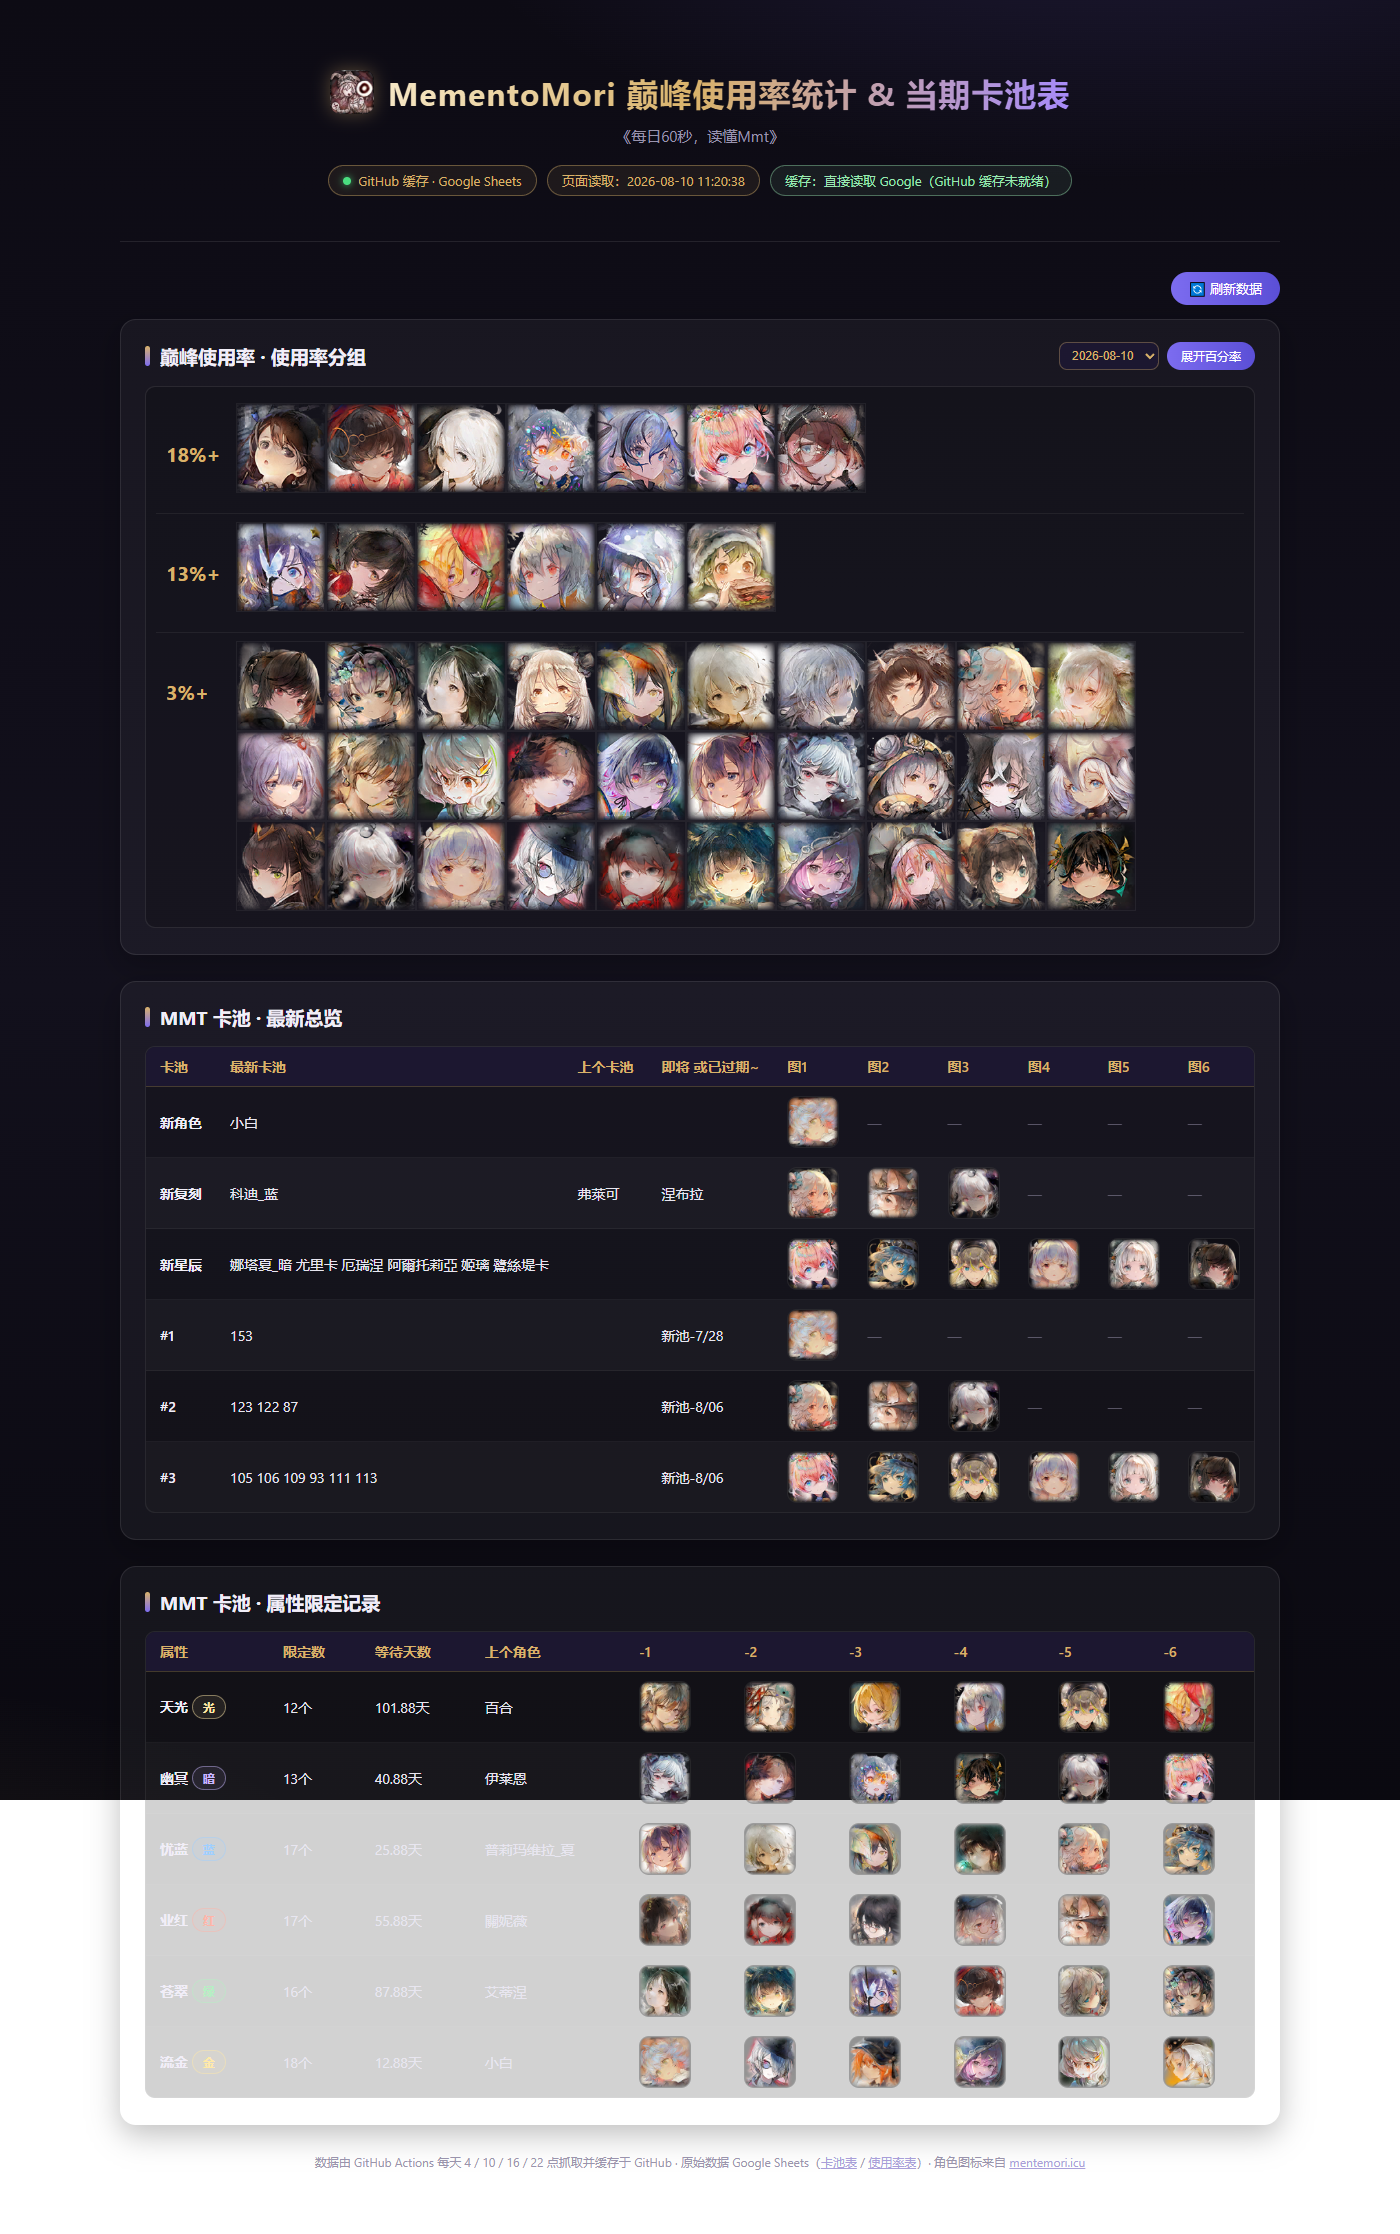
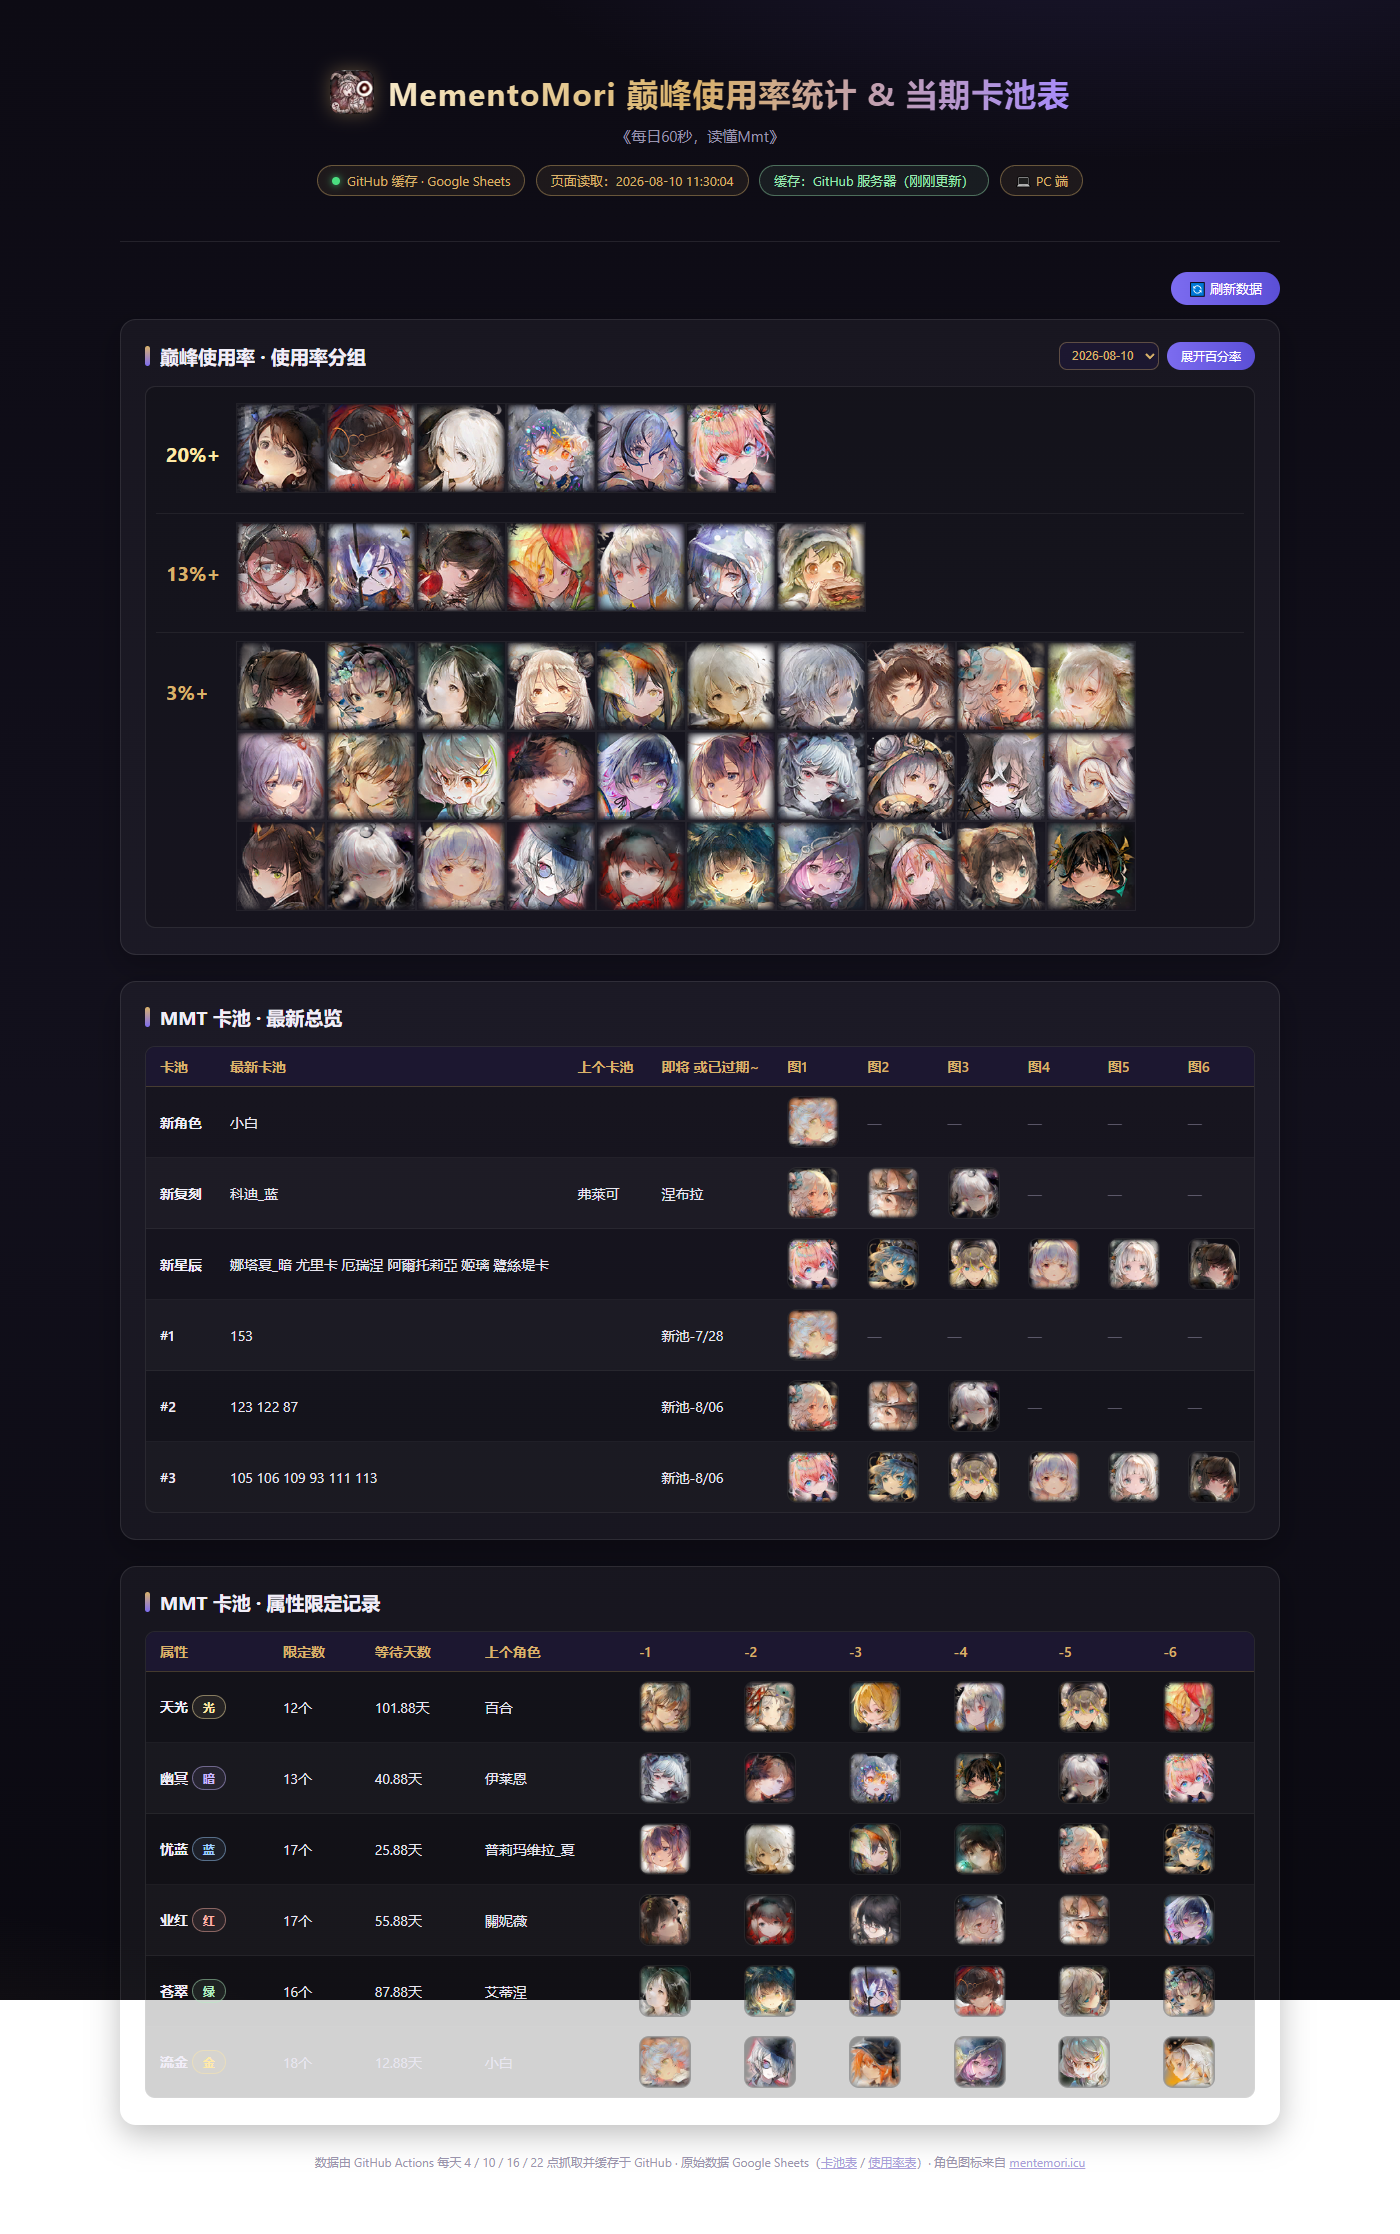
分类标签可点击填写自定义阈值；新增移动端/PC端识别与适配

diff --git a/index.html b/index.html
@@ -173,9 +173,12 @@ tbody tr:last-child td{border-bottom:none}
 .usage-wrap{padding:8px 10px}
 .grp{display:flex;align-items:flex-start;border-bottom:1px solid rgba(255,255,255,.06)}
 .grp:last-child{border-bottom:none}
-.grp-label{flex:0 0 80px;padding:14px 10px;font-weight:700;color:var(--gold);font-size:20px;line-height:90px;white-space:nowrap}
-.grp .icons{display:flex;flex-wrap:wrap;flex:0 0 900px;width:900px;gap:0;padding:8px 0}
-.ic{width:90px;height:90px;position:relative;overflow:hidden;border:1px solid rgba(255,255,255,.06)}
+:root{--usz:90px;--per-row:10}
+.grp-label{flex:0 0 80px;padding:14px 10px;font-weight:700;color:var(--gold);font-size:20px;line-height:var(--usz);white-space:nowrap;background:none;border:none;cursor:pointer;text-align:left;font-family:inherit}
+.grp-label:hover{color:#ffe9a8}
+.thr-input{width:76px;background:#1c1730;color:var(--gold);border:1px solid rgba(217,178,106,.4);border-radius:6px;font-size:17px;padding:4px 6px;line-height:28px;outline:none}
+.grp .icons{display:flex;flex-wrap:wrap;flex:0 0 calc(var(--per-row) * var(--usz));width:calc(var(--per-row) * var(--usz));gap:0;padding:8px 0}
+.ic{width:var(--usz);height:var(--usz);position:relative;overflow:hidden;border:1px solid rgba(255,255,255,.06)}
 .ic img{width:100%;height:100%;object-fit:cover;display:block}
 .ic .pct{display:none;position:absolute;left:0;right:0;bottom:0;background:rgba(10,8,20,.72);color:#ffe9a8;font-size:13px;line-height:20px;text-align:center}
 .usage-wrap.expanded .ic .pct{display:block}
@@ -201,6 +204,23 @@ footer{
   line-height:1.9;
 }
 footer a{color:#a99fd9}
+@media (max-width: 768px){
+  :root{--usz:56px;--per-row:5}
+  .wrap{padding:16px 10px 40px}
+  header.top{padding:20px 12px 18px}
+  header.top h1{font-size:20px;flex-wrap:wrap}
+  h1 .logo{width:32px;height:32px}
+  header.top .subtitle{font-size:13px}
+  .badge{font-size:12px;padding:5px 10px}
+  section.card{padding:14px 12px 18px;margin-bottom:16px}
+  section.card h2{font-size:15px}
+  .h2-note{flex-wrap:wrap}
+  thead th, tbody td{padding:7px 8px;font-size:12px}
+  .cell-ico .ico{width:40px;height:40px;border-radius:6px}
+  .grp-label{font-size:15px}
+  .ic .pct{font-size:10px;line-height:16px}
+  .toolbar{justify-content:center}
+}
 </style>
 </head>
 <body>
@@ -212,6 +232,7 @@ footer a{color:#a99fd9}
       <span class="badge"><span class="dot"></span>GitHub 缓存 · Google Sheets</span>
       <span class="badge" id="fetch-time">页面读取：—</span>
       <span class="badge" id="cache-time">缓存：—</span>
+      <span class="badge" id="device">💻 PC 端</span>
     </p>
   </header>
 
@@ -470,14 +491,20 @@ function renderElements(el){
     + "</tr></thead><tbody>" + body + "</tbody></table>";
 }
 let usageState = null;
+let thresholds = [0.18, 0.13, 0.03];
 let selectedDay = null;
 let pctOpen = false;
 
+function pctLabel(t){
+  const p = t * 100;
+  return (Number.isInteger(p) ? p.toFixed(0) : p.toFixed(2)) + "%+";
+}
 function groupsFor(list){
+  const ts = thresholds.slice().sort((a, b) => b - a);
   return [
-    { label: "18%+", min: 0.18,  max: Infinity, cap: Infinity },
-    { label: "13%+", min: 0.13,  max: 0.18,     cap: Infinity },
-    { label: "3%+",  min: 0.03,  max: 0.13,     cap: 30 }
+    { label: pctLabel(ts[0]), min: ts[0], max: Infinity, cap: Infinity },
+    { label: pctLabel(ts[1]), min: ts[1], max: ts[0],    cap: Infinity },
+    { label: pctLabel(ts[2]), min: ts[2], max: ts[1],    cap: 30 }
   ].map(g => ({ label: g.label, items: list.filter(x => x.v >= g.min && x.v < g.max).slice(0, g.cap) }));
 }
 function renderUsage(){
@@ -491,8 +518,9 @@ function renderUsage(){
   const names = usageState.names || {};
   const groups = groupsFor(usageState.perDay[selectedDay]);
   let html = "";
-  for (const g of groups){
-    html += '<div class="grp"><span class="grp-label">' + esc(g.label) + '</span><div class="icons">';
+  for (let i = 0; i < groups.length; i++){
+    const g = groups[i];
+    html += '<div class="grp"><button type="button" class="grp-label" data-idx="' + i + '" onclick="editThreshold(' + i + ', this)">' + esc(g.label) + '</button><div class="icons">';
     for (const x of g.items){
       const p = x.id.padStart(6, "0");
       const nm = names[x.id] || ("ID " + x.id);
@@ -510,6 +538,47 @@ function renderUsage(){
   sel.innerHTML = usageState.days.map(d =>
     '<option value="' + d.c + '"' + (d.c === selectedDay ? " selected" : "") + ">" + esc(d.display) + "</option>"
   ).join("");
+}
+function editThreshold(idx, el){
+  const input = document.createElement("input");
+  input.type = "number";
+  input.min = "0";
+  input.max = "100";
+  input.step = "0.1";
+  const cur = thresholds[idx] * 100;
+  input.value = Number.isInteger(cur) ? cur.toFixed(0) : cur.toFixed(2);
+  input.className = "thr-input";
+  el.replaceWith(input);
+  input.focus();
+  input.select();
+  let done = false;
+  const commit = () => {
+    if (done) return;
+    done = true;
+    let v = parseFloat(input.value);
+    if (isNaN(v) || v < 0) v = thresholds[idx] * 100;
+    if (v > 100) v = 100;
+    thresholds[idx] = v / 100;
+    thresholds.sort((a, b) => b - a);
+    renderUsage();
+  };
+  input.addEventListener("blur", commit);
+  input.addEventListener("keydown", e => {
+    if (e.key === "Enter"){ e.preventDefault(); input.blur(); }
+    else if (e.key === "Escape"){ if (!done){ done = true; renderUsage(); } }
+  });
+}
+function detectDevice(){
+  const m = window.matchMedia("(max-width: 768px)");
+  const el = document.getElementById("device");
+  const apply = () => {
+    const isM = m.matches;
+    document.documentElement.classList.toggle("mobile", isM);
+    if (el) el.textContent = isM ? "📱 移动端" : "💻 PC 端";
+  };
+  apply();
+  if (m.addEventListener) m.addEventListener("change", apply);
+  else if (m.addListener) m.addListener(apply);
 }
 function onDayChange(){
   selectedDay = parseInt(document.getElementById("usage-day").value, 10);
@@ -681,6 +750,7 @@ async function load(force){
 }
 
 document.getElementById("fetch-time").textContent = "页面读取：" + fmtNow();
+detectDevice();
 load(false);
 scheduleRefresh();
 </script>
